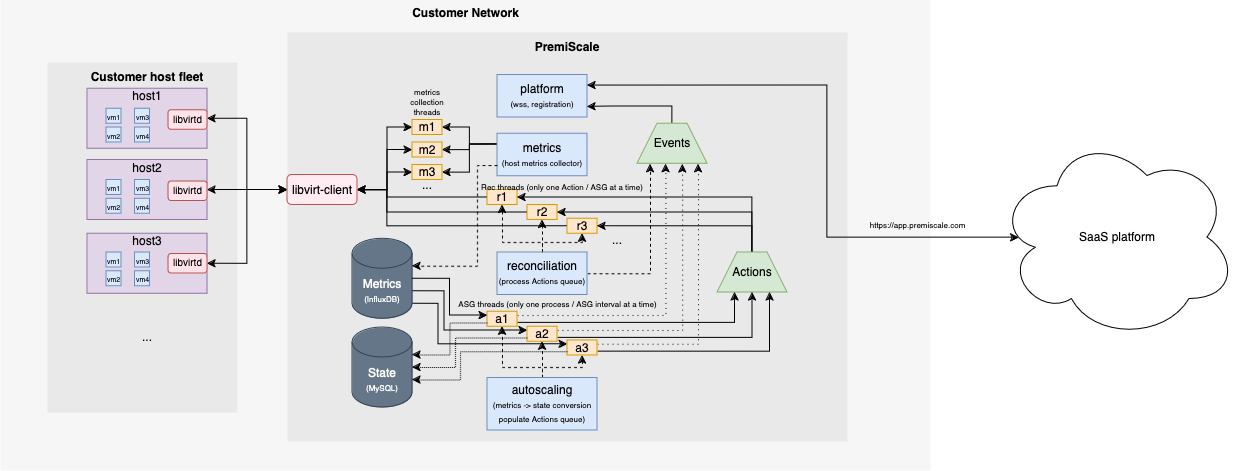
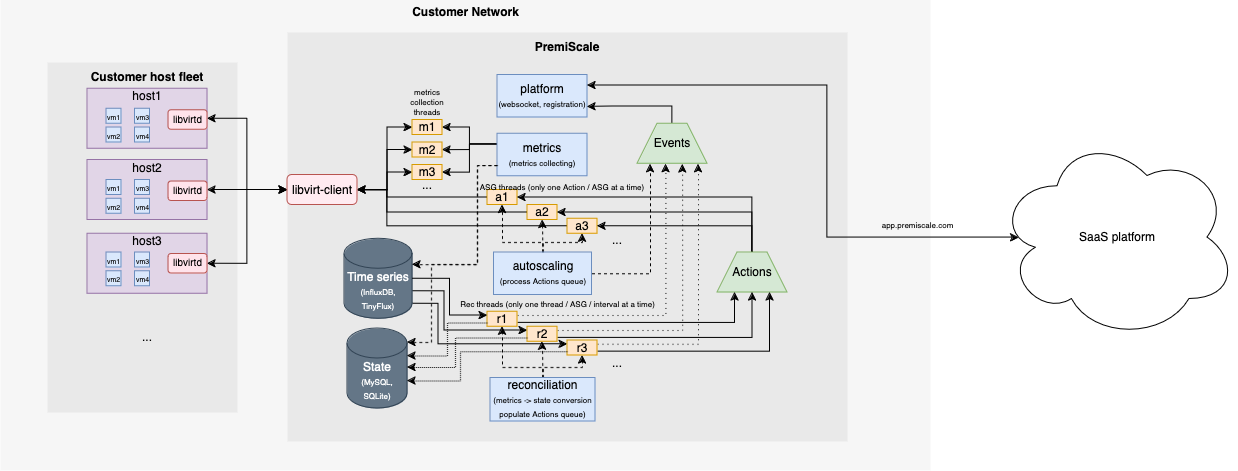
AGENT-81: Update diagrams

diff --git a/src/premiscale/metrics/timeseries/local.py b/src/premiscale/metrics/timeseries/local.py
@@ -33,7 +33,7 @@ class Local(TimeSeries):
         """
         Open a connection to the metrics backend these methods interact with.
         """
-        if self.file:
+        if self.file is not None:
             self._connection = TinyFlux(self.file)
         else:
             self._connection = TinyFlux()
@@ -59,10 +59,16 @@ class Local(TimeSeries):
         self._connection.insert(point)
         self._run_retention_policy()
 
+    def clear(self) -> None:
+        """
+        Clear the metrics store of all data.
+        """
+        self._connection.remove_all()
+
     def _run_retention_policy(self) -> None:
         """
         Run the retention policy on the database, removing points older than the retention policy.
         """
         timeq = TimeQuery()
-        t = datetime.now(timezone.utc) - self.retention
-        self._connection.remove(timeq < t)
+        time_now = datetime.now(timezone.utc) - self.retention
+        self._connection.remove(timeq < time_now)
